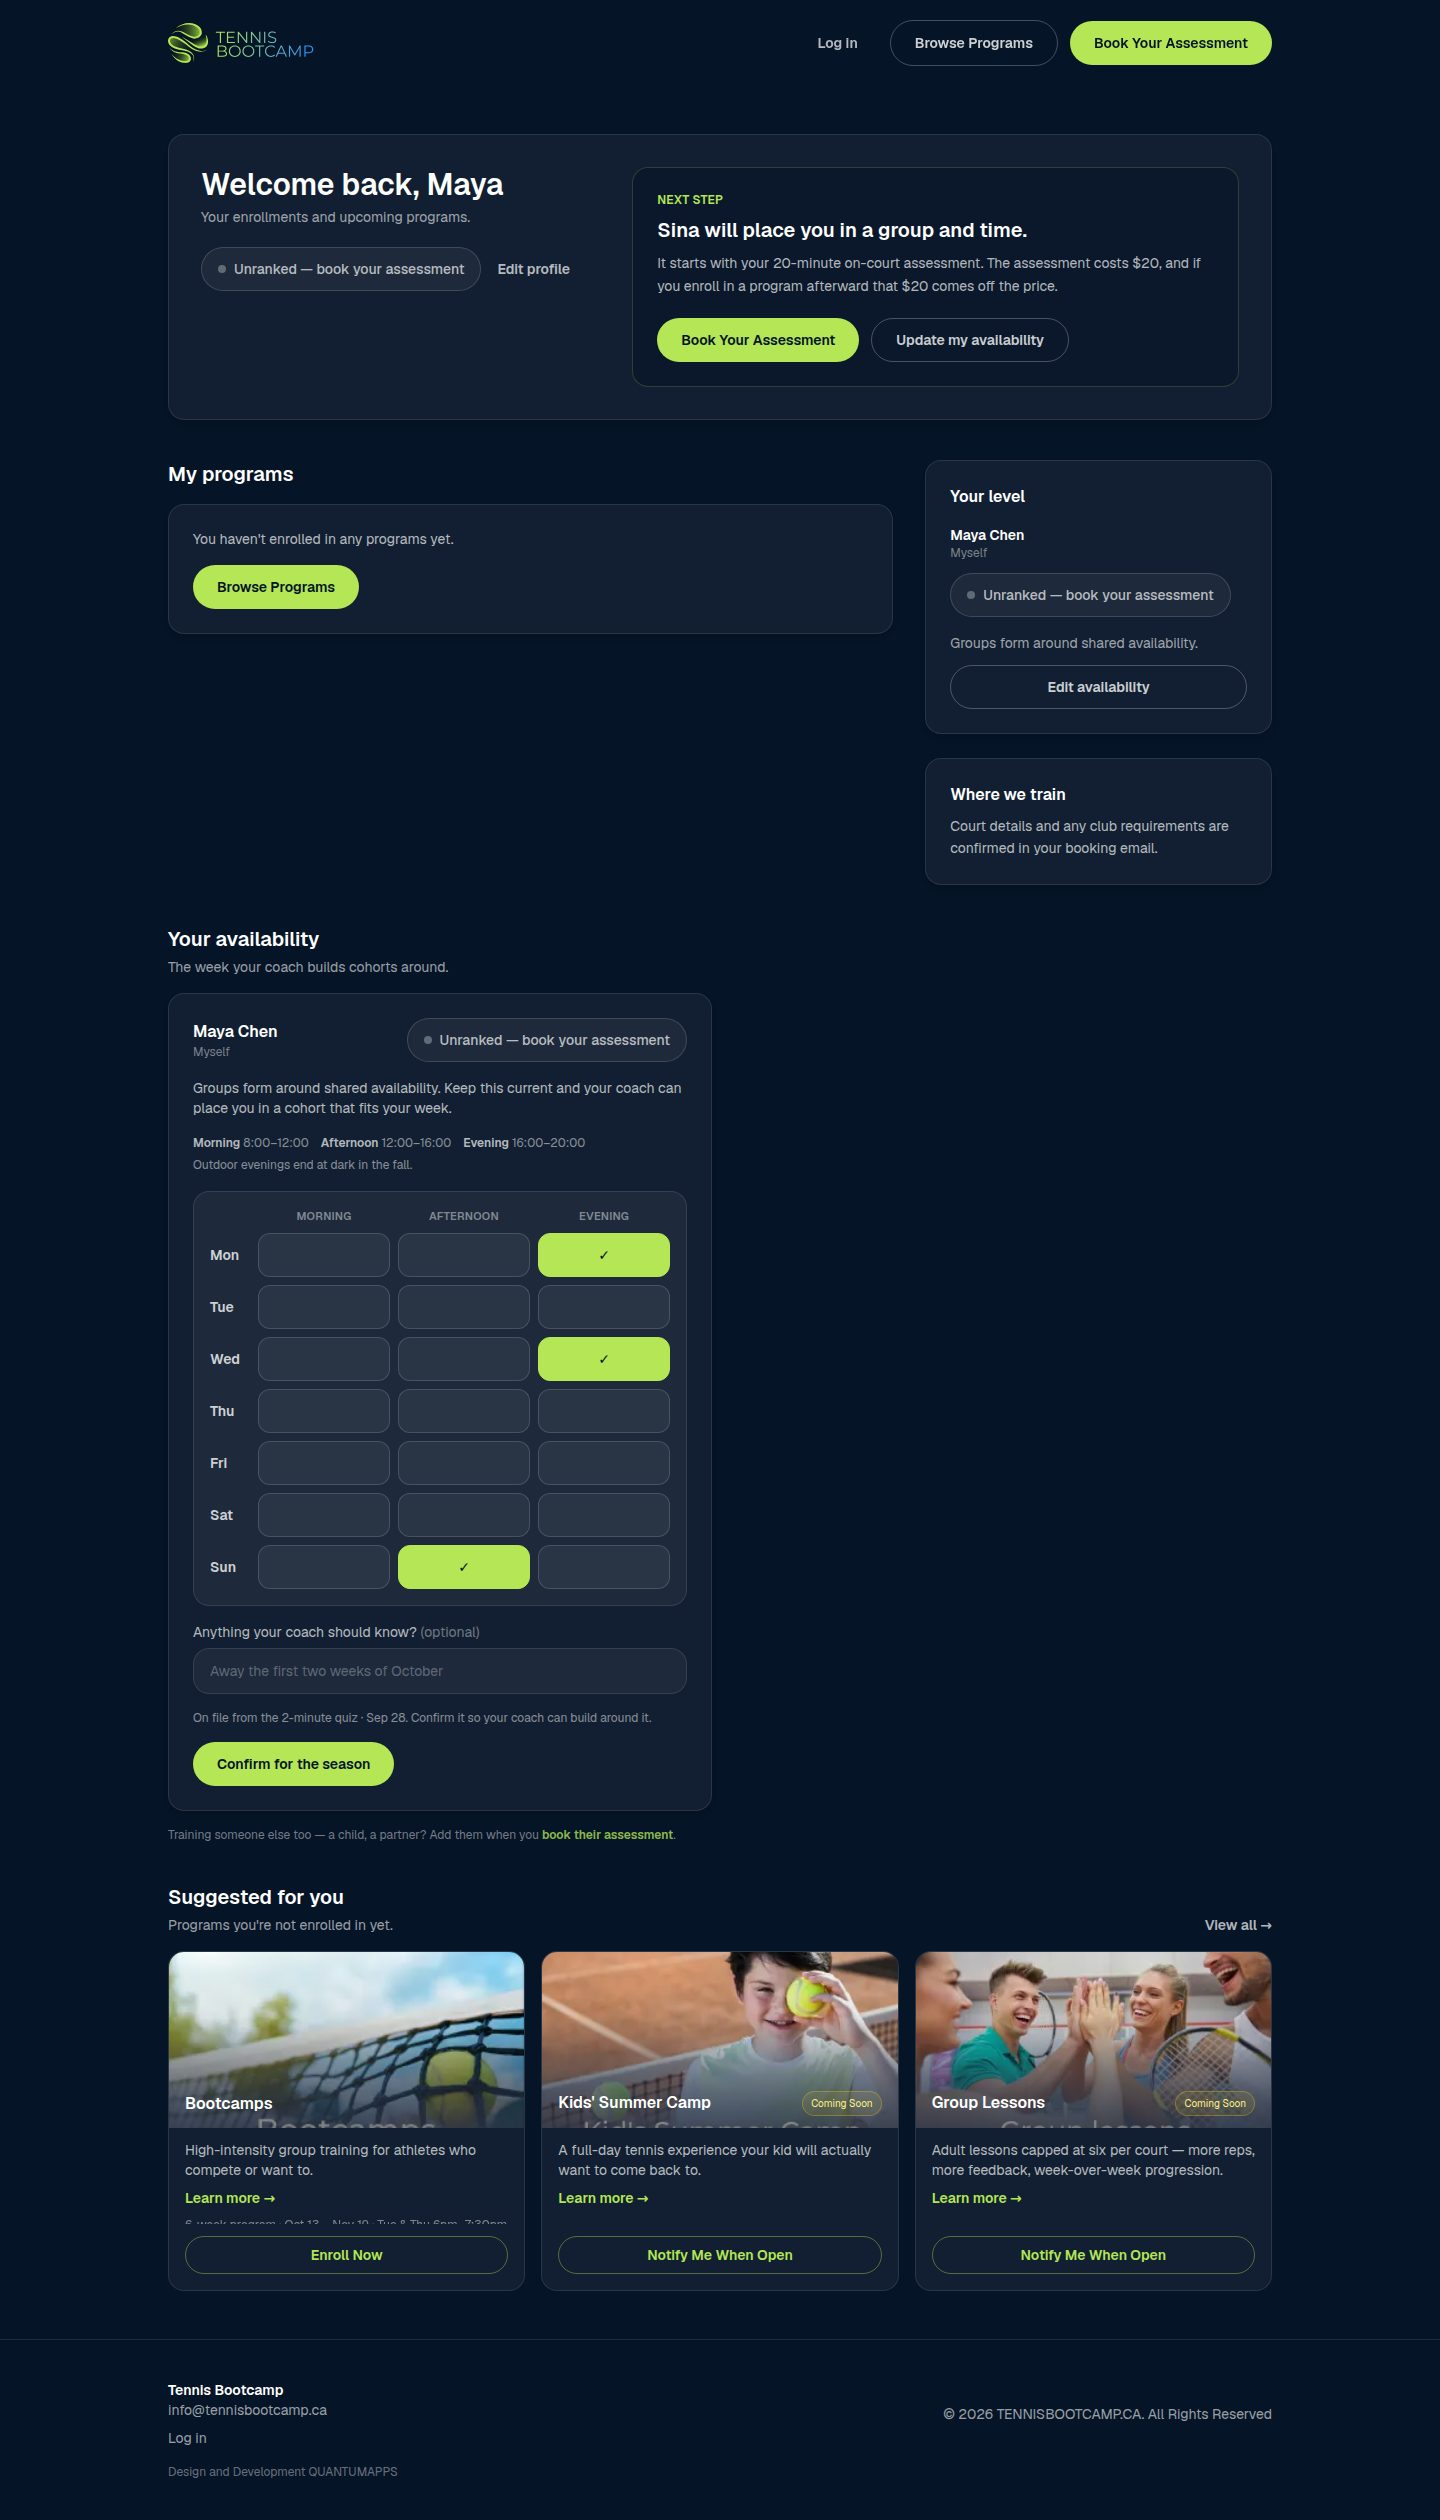
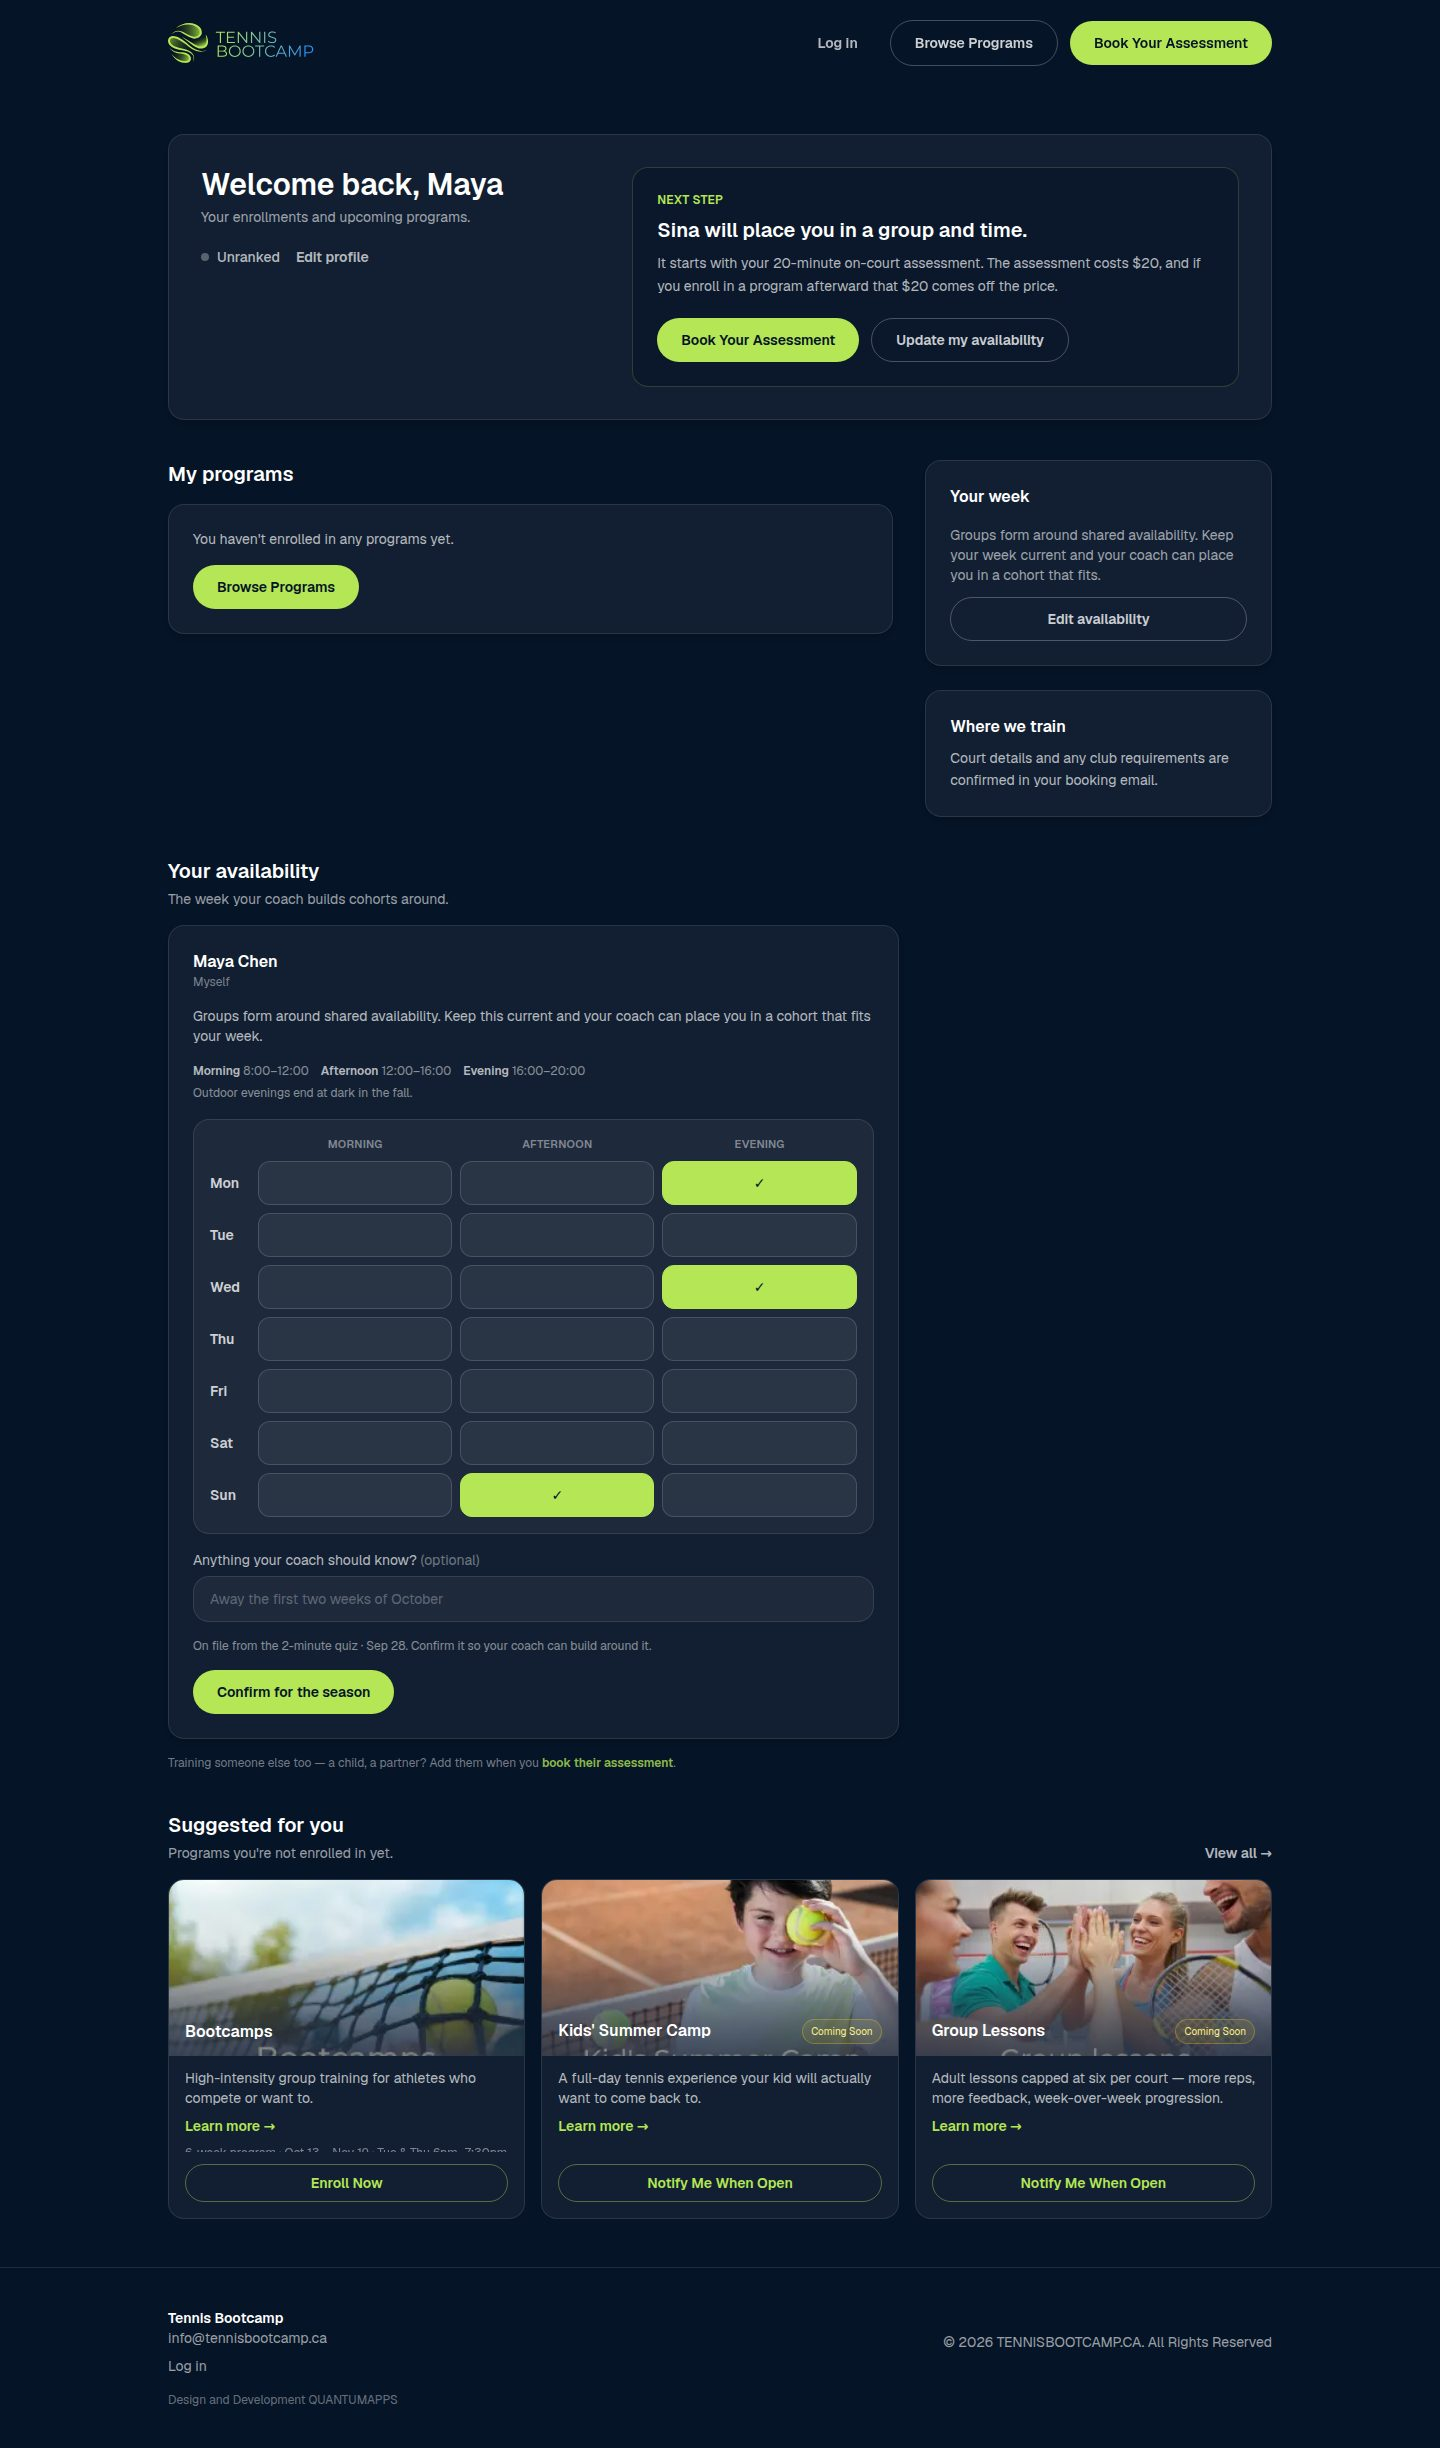
ui(dashboard): #21 review fixes — tier once, aligned availability, voice
- Tier shown once, as the header badge; the side card and the
  availability card no longer repeat it. An unranked account gets a plain
  "Unranked" label in the header and one Book Your Assessment button in
  the next step, not a chip and a button.
- A single player's availability card spans the main column so its edges
  line up with the header and program cards.
- Enrolled with no generated dates reads "Your session dates are coming."
  — that player is already placed.
- Past-session rows at white/60 (AA on the navy); the native details
  marker is hidden in Safari too.
- Verb-first buttons: "See all sessions", "See my programs".
- A program's ageGroup renders as written ("Ages 14+").
- Updated after-screenshots for the PR body (removed from the tree in the
  next commit; linked by commit).

Claude-Session: https://claude.ai/code/session_01CXuTjWaQ2YDmu2GjLEiW4V

diff --git a/src/app/dashboard/DashboardView.tsx b/src/app/dashboard/DashboardView.tsx
@@ -12,7 +12,7 @@ import {
 import { VENUE_LINE } from "@/lib/membership";
 import { hasLevel } from "@/lib/tiers";
 import { isCohortPublic } from "@/lib/cohortVisibility";
-import { TierStatus, TierRangeBadges } from "@/components/tiers";
+import { TierBadge, TierRangeBadges } from "@/components/tiers";
 import { ProgramCard, nextCohortFor } from "@/components/sections/ProgramCard";
 import { AvailabilityEditor } from "./AvailabilityEditor";
 
@@ -68,10 +68,6 @@ function fmt12h(time: string): string {
   const suffix = h >= 12 ? "pm" : "am";
   const hour = h % 12 || 12;
   return m === 0 ? `${hour}${suffix}` : `${hour}:${String(m).padStart(2, "0")}${suffix}`;
-}
-
-function ageLabel(ageGroup: string): string {
-  return ageGroup.replace(/^Ages?\s*/i, "").replace(/^Adults?\s*/i, "");
 }
 
 function fmtSessionDate(iso: string): string {
@@ -155,7 +151,7 @@ function SessionRow({ row, replaces, muted = false }: SessionWithMakeup & { mute
   return (
     <li
       className={`flex flex-wrap items-center gap-x-3 gap-y-1 py-2 text-sm ${
-        muted ? "text-white/45" : "text-white/80"
+        muted ? "text-white/60" : "text-white/80"
       }`}
     >
       <span className="w-[7.5rem] shrink-0 font-medium">
@@ -202,7 +198,7 @@ function SessionList({
       )}
       {past.length > 0 && (
         <details className="group mt-3">
-          <summary className="cursor-pointer list-none rounded text-sm font-semibold text-white/60 transition-colors hover:text-white focus:outline-none focus-visible:ring-2 focus-visible:ring-[#B4E655]/50 focus-visible:ring-offset-2 focus-visible:ring-offset-[#061427]">
+          <summary className="cursor-pointer list-none rounded text-sm font-semibold text-white/70 transition-colors hover:text-white [&::-webkit-details-marker]:hidden focus:outline-none focus-visible:ring-2 focus-visible:ring-[#B4E655]/50 focus-visible:ring-offset-2 focus-visible:ring-offset-[#061427]">
             <span className="inline-block w-4 transition-transform group-open:rotate-90" aria-hidden="true">
               ›
             </span>
@@ -266,14 +262,12 @@ function nextStepFor(props: DashboardViewProps): NextStep {
       ]
         .filter(Boolean)
         .join(" · "),
-      secondary: { href: "#my-programs", label: "All sessions" },
+      secondary: { href: "#my-programs", label: "See all sessions" },
     };
   }
 
-  const headline = "Sina will place you in a group and time.";
-
-  // Enrolled in a cohort whose dates aren't generated yet — the weekly slot is
-  // the only schedule on record.
+  // Enrolled in a cohort whose dates aren't generated yet — the player is
+  // placed; the weekly slot is the only schedule on record.
   const pending = enrollments
     .map((e) => cohorts.find((c) => c.id === e.cohort_id))
     .find((c) => c && c.sessions.length > 0 && !(sessionsByCohort[c.id] ?? []).length);
@@ -281,13 +275,15 @@ function nextStepFor(props: DashboardViewProps): NextStep {
     const program = programs.find((p) => p.id === pending.programId);
     return {
       eyebrow: "Next step",
-      headline,
+      headline: "Your session dates are coming.",
       detail: `${program?.title ?? pending.programId} trains ${weeklySlots(
         pending
       )}. Dates are confirmed once the group is set.`,
-      secondary: { href: "#my-programs", label: "My programs" },
+      secondary: { href: "#my-programs", label: "See my programs" },
     };
   }
+
+  const headline = "Sina will place you in a group and time.";
 
   if (!hasLevel(self?.level)) {
     return {
@@ -343,7 +339,14 @@ export function DashboardView(props: DashboardViewProps) {
               Your enrollments and upcoming programs.
             </p>
             <div className="mt-5 flex flex-wrap items-center gap-4">
-              <TierStatus level={self?.level ?? null} />
+              {hasLevel(self?.level) ? (
+                <TierBadge level={self?.level} />
+              ) : (
+                <span className="inline-flex items-center gap-2 text-sm font-medium text-white/70">
+                  <span aria-hidden="true" className="inline-block h-2 w-2 rounded-full bg-white/30" />
+                  Unranked
+                </span>
+              )}
               <Link href="/profile" className={linkClass}>
                 Edit profile
               </Link>
@@ -422,7 +425,7 @@ export function DashboardView(props: DashboardViewProps) {
                         </div>
                         {program?.ageGroup && (
                           <span className="shrink-0 rounded-full bg-[#B4E655]/10 px-3 py-1 text-xs font-semibold text-[#B4E655]">
-                            Age {ageLabel(program.ageGroup)}
+                            {program.ageGroup}
                           </span>
                         )}
                       </div>
@@ -488,25 +491,37 @@ export function DashboardView(props: DashboardViewProps) {
 
         {/* Side column */}
         <aside className="space-y-6">
-          <section className={`${SURFACE} p-5 md:p-6`} aria-labelledby="your-level">
-            <h2 id="your-level" className="text-base font-semibold text-white">
-              {household ? "Your players" : "Your level"}
+          <section className={`${SURFACE} p-5 md:p-6`} aria-labelledby="your-week">
+            <h2 id="your-week" className="text-base font-semibold text-white">
+              {household ? "Your players" : "Your week"}
             </h2>
-            <ul className="mt-4 divide-y divide-white/10">
-              {players.map((player) => (
-                <li key={player.id} className="flex flex-wrap items-center justify-between gap-3 py-3 first:pt-0 last:pb-0">
-                  <div>
-                    <p className="text-sm font-semibold text-white">
-                      {player.full_name?.trim() || "Unnamed player"}
-                    </p>
-                    <p className="text-xs text-white/45">{relationshipLine(player)}</p>
-                  </div>
-                  <TierStatus level={player.level} badgeSize={32} />
-                </li>
-              ))}
-            </ul>
+            {household && (
+              <ul className="mt-4 divide-y divide-white/10">
+                {players.map((player) => (
+                  <li
+                    key={player.id}
+                    className="flex flex-wrap items-center justify-between gap-3 py-3 first:pt-0 last:pb-0"
+                  >
+                    <div>
+                      <p className="text-sm font-semibold text-white">
+                        {player.full_name?.trim() || "Unnamed player"}
+                      </p>
+                      <p className="text-xs text-white/45">{relationshipLine(player)}</p>
+                    </div>
+                    {player.id !== self?.id &&
+                      (hasLevel(player.level) ? (
+                        <TierBadge level={player.level} size={32} />
+                      ) : (
+                        <span className="text-xs font-medium text-white/60">Unranked</span>
+                      ))}
+                  </li>
+                ))}
+              </ul>
+            )}
             <p className="mt-4 text-sm text-white/60">
-              Groups form around shared availability.
+              Groups form around shared availability. Keep {household ? "every" : "your"} week
+              current and your coach can place {household ? "each player" : "you"} in a cohort that
+              fits.
             </p>
             <Link href="#availability" className={`${secondaryButton} mt-3 w-full`}>
               Edit availability
@@ -529,17 +544,17 @@ export function DashboardView(props: DashboardViewProps) {
           title={household ? "Your players' availability" : "Your availability"}
           sub="The week your coach builds cohorts around."
         />
-        <div className="grid gap-4 lg:grid-cols-2">
+        <div className={`grid gap-4 ${household ? "lg:grid-cols-2" : "lg:grid-cols-3"}`}>
           {players.map((player) => (
-            <div key={player.id} className={`${SURFACE} p-5 md:p-6`}>
-              <div className="mb-4 flex flex-wrap items-center justify-between gap-3">
-                <div>
-                  <p className="text-base font-semibold text-white">
-                    {player.full_name?.trim() || "Unnamed player"}
-                  </p>
-                  <p className="text-xs text-white/45">{relationshipLine(player)}</p>
-                </div>
-                <TierStatus level={player.level} />
+            <div
+              key={player.id}
+              className={`${SURFACE} p-5 md:p-6 ${household ? "" : "lg:col-span-2"}`}
+            >
+              <div className="mb-4">
+                <p className="text-base font-semibold text-white">
+                  {player.full_name?.trim() || "Unnamed player"}
+                </p>
+                <p className="text-xs text-white/45">{relationshipLine(player)}</p>
               </div>
               <AvailabilityEditor
                 participantId={player.id}
